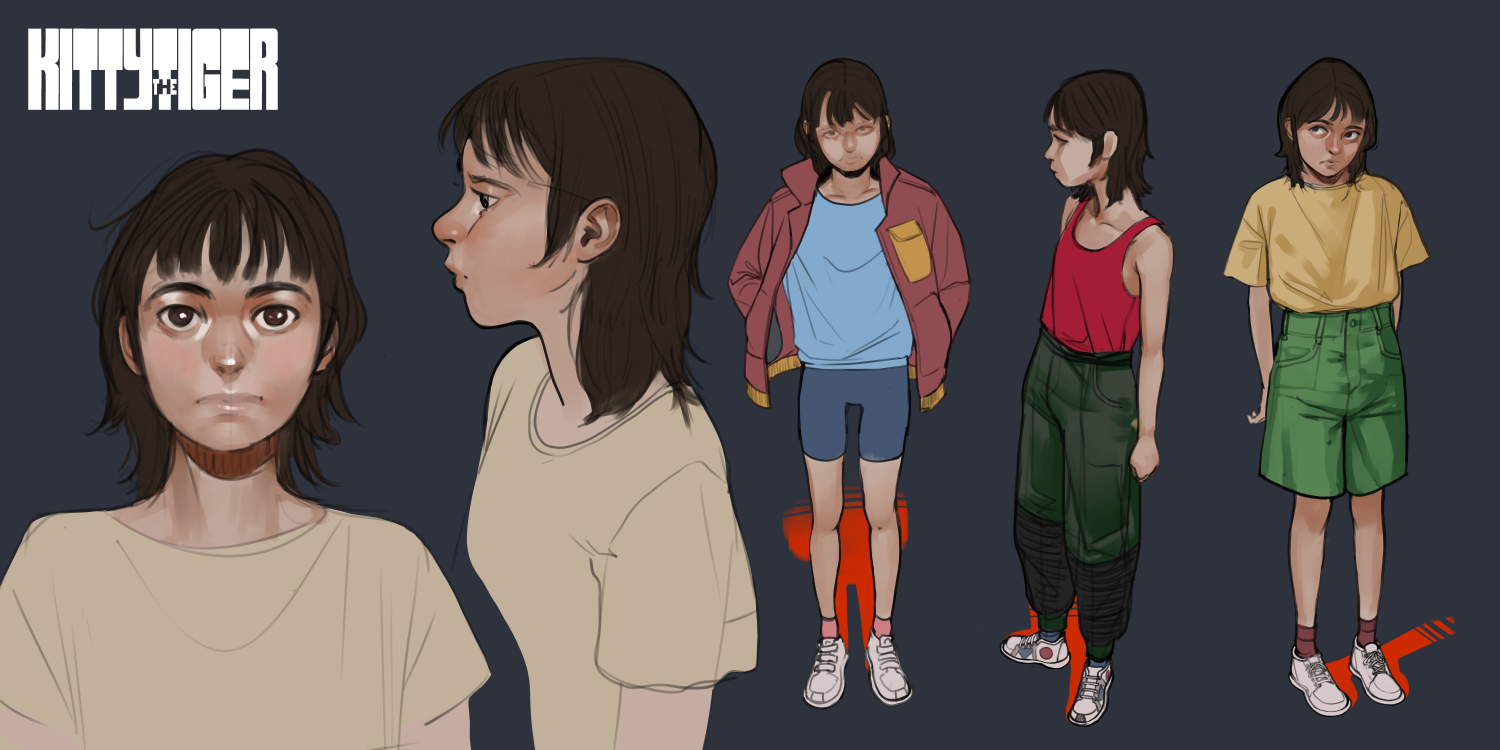
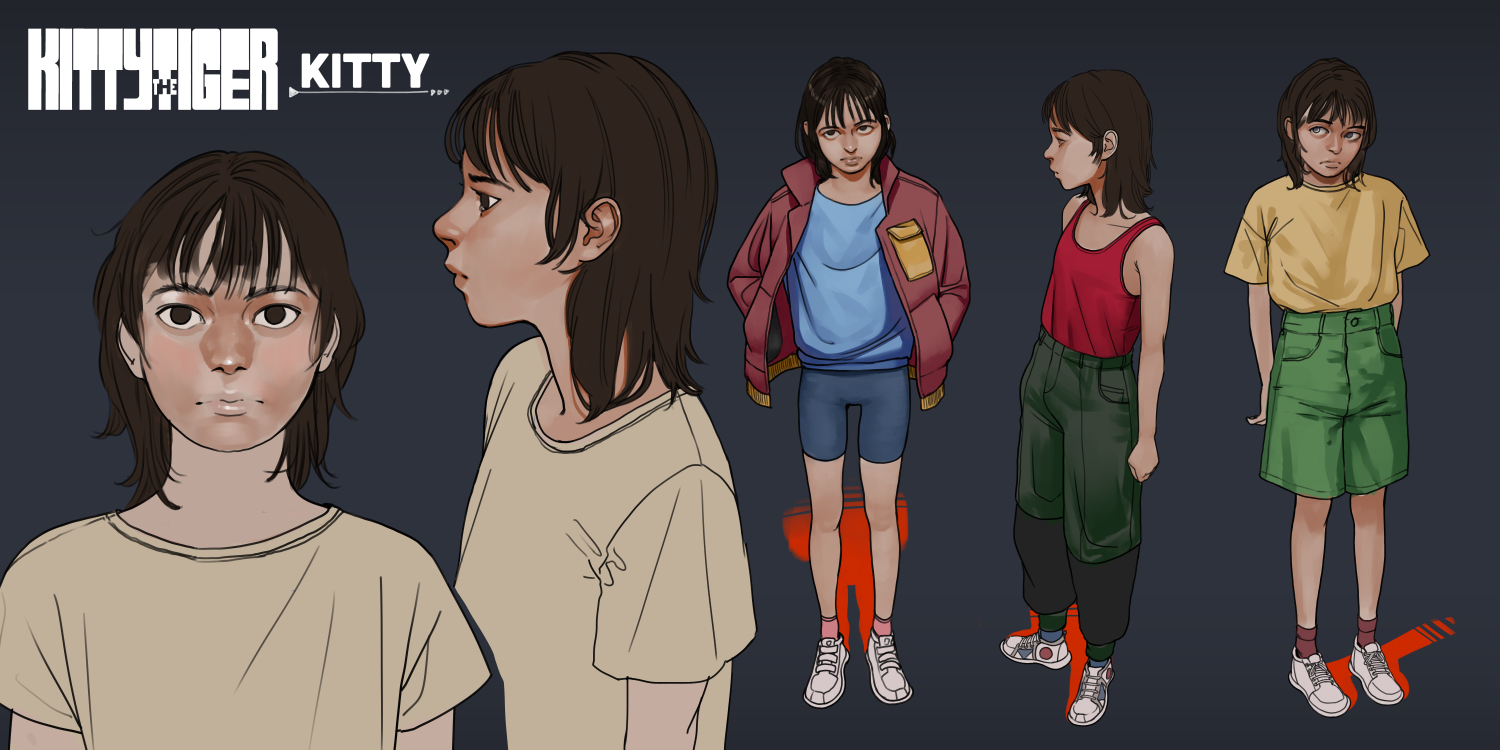
update projects art

diff --git a/client/components/KittyTheTiger.tsx b/client/components/KittyTheTiger.tsx
@@ -23,10 +23,10 @@ function KittyTheTiger() {
           <img className="image-3" src={"/kittythetiger/vis_dev_02.jpg"} />
           <p>Blurb about the world of Kitty the Tiger, it's cyberpunk, but looking for the positive in it.</p>
         </div>
-        <div className="image-block">
-          <img className="image-4" src={"/kittythetiger/vis_dev_01.jpg"} />
-          <p>Blurb about the world of Kitty the Tiger, it's cyberpunk, but looking for the positive in it.</p>
-        </div>
+        {/* <div className="image-block"> */}
+        {/*   <img className="image-4" src={"/kittythetiger/vis_dev_01.jpg"} /> */}
+        {/*   <p>Blurb about the world of Kitty the Tiger, it's cyberpunk, but looking for the positive in it.</p> */}
+        {/* </div> */}
       </section>
       <section>
         <h3>People</h3>
@@ -43,51 +43,51 @@ function KittyTheTiger() {
           <img className="image-3" src={"/kittythetiger/char_designs_03.jpg"} />
           <p>Blurb about the world of Kitty the Tiger, it's cyberpunk, but looking for the positive in it.</p>
         </div>
-        <div className="image-block">
-          <img className="image-4" src={"/kittythetiger/char_designs_02.jpg"} />
-          <p>Blurb about the world of Kitty the Tiger, it's cyberpunk, but looking for the positive in it.</p>
-        </div>
+        {/* <div className="image-block"> */}
+        {/*   <img className="image-4" src={"/kittythetiger/char_designs_02.jpg"} /> */}
+        {/*   <p>Blurb about the world of Kitty the Tiger, it's cyberpunk, but looking for the positive in it.</p> */}
+        {/* </div> */}
       </section>
-      <section>
-        <h3>Cars</h3>
-        <h4>Blurb about the cars and vehicles in the world, because that is just very Cyberpunk and cool.</h4>
-        <div className="image-block">
-          <img className="image-1" src={"/kittythetiger/car_designs_01.jpg"} />
-          <p>Blurb about the world of Kitty the Tiger, it's cyberpunk, but looking for the positive in it.</p>
-        </div>
-        <div className="image-block">
-          <img className="image-2" src={"/kittythetiger/car_designs_01.jpg"} />
-          <p>Blurb about the world of Kitty the Tiger, it's cyberpunk, but looking for the positive in it.</p>
-        </div>
-        <div className="image-block">
-          <img className="image-3" src={"/kittythetiger/car_designs_01.jpg"} />
-          <p>Blurb about the world of Kitty the Tiger, it's cyberpunk, but looking for the positive in it.</p>
-        </div>
-        <div className="image-block">
-          <img className="image-4" src={"/kittythetiger/car_designs_01.jpg"} />
-          <p>Blurb about the world of Kitty the Tiger, it's cyberpunk, but looking for the positive in it.</p>
-        </div>
-      </section>
-      <section>
-        <h3>Technology</h3>
-        <h4>Blurb about the technology in the world, maybe things that are positive, that could be achieved with technical advancements.</h4>
-        <div className="image-block">
-          <img className="image-1" src={"/kittythetiger/char_designs_01.jpg"} />
-          <p>Blurb about the world of Kitty the Tiger, it's cyberpunk, but looking for the positive in it.</p>
-        </div>
-        <div className="image-block">
-          <img className="image-2" src={"/kittythetiger/env_designs_01.jpg"} />
-          <p>Blurb about the world of Kitty the Tiger, it's cyberpunk, but looking for the positive in it.</p>
-        </div>
-        <div className="image-block">
-          <img className="image-3" src={"/kittythetiger/char_designs_01.jpg"} />
-          <p>Blurb about the world of Kitty the Tiger, it's cyberpunk, but looking for the positive in it.</p>
-        </div>
-        <div className="image-block">
-          <img className="image-4" src={"/kittythetiger/char_designs_01.jpg"} />
-          <p>Blurb about the world of Kitty the Tiger, it's cyberpunk, but looking for the positive in it.</p>
-        </div>
-      </section>
+      {/* <section> */}
+      {/*   <h3>Cars</h3> */}
+      {/*   <h4>Blurb about the cars and vehicles in the world, because that is just very Cyberpunk and cool.</h4> */}
+      {/*   <div className="image-block"> */}
+      {/*     <img className="image-1" src={"/kittythetiger/car_designs_01.jpg"} /> */}
+      {/*     <p>Blurb about the world of Kitty the Tiger, it's cyberpunk, but looking for the positive in it.</p> */}
+      {/*   </div> */}
+      {/*   <div className="image-block"> */}
+      {/*     <img className="image-2" src={"/kittythetiger/car_designs_01.jpg"} /> */}
+      {/*     <p>Blurb about the world of Kitty the Tiger, it's cyberpunk, but looking for the positive in it.</p> */}
+      {/*   </div> */}
+      {/*   <div className="image-block"> */}
+      {/*     <img className="image-3" src={"/kittythetiger/car_designs_01.jpg"} /> */}
+      {/*     <p>Blurb about the world of Kitty the Tiger, it's cyberpunk, but looking for the positive in it.</p> */}
+      {/*   </div> */}
+      {/*   <div className="image-block"> */}
+      {/*     <img className="image-4" src={"/kittythetiger/car_designs_01.jpg"} /> */}
+      {/*     <p>Blurb about the world of Kitty the Tiger, it's cyberpunk, but looking for the positive in it.</p> */}
+      {/*   </div> */}
+      {/* </section> */}
+      {/* <section> */}
+      {/*   <h3>Technology</h3> */}
+      {/*   <h4>Blurb about the technology in the world, maybe things that are positive, that could be achieved with technical advancements.</h4> */}
+      {/*   <div className="image-block"> */}
+      {/*     <img className="image-1" src={"/kittythetiger/char_designs_01.jpg"} /> */}
+      {/*     <p>Blurb about the world of Kitty the Tiger, it's cyberpunk, but looking for the positive in it.</p> */}
+      {/*   </div> */}
+      {/*   <div className="image-block"> */}
+      {/*     <img className="image-2" src={"/kittythetiger/env_designs_01.jpg"} /> */}
+      {/*     <p>Blurb about the world of Kitty the Tiger, it's cyberpunk, but looking for the positive in it.</p> */}
+      {/*   </div> */}
+      {/*   <div className="image-block"> */}
+      {/*     <img className="image-3" src={"/kittythetiger/char_designs_01.jpg"} /> */}
+      {/*     <p>Blurb about the world of Kitty the Tiger, it's cyberpunk, but looking for the positive in it.</p> */}
+      {/*   </div> */}
+      {/*   <div className="image-block"> */}
+      {/*     <img className="image-4" src={"/kittythetiger/char_designs_01.jpg"} /> */}
+      {/*     <p>Blurb about the world of Kitty the Tiger, it's cyberpunk, but looking for the positive in it.</p> */}
+      {/*   </div> */}
+      {/* </section> */}
     </main>
   )
 }

diff --git a/client/styles/index.scss b/client/styles/index.scss
@@ -531,7 +531,7 @@ main {
 
       .image-block {
         // display: flex;
-        justify-self: right;
+        justify-self: center;
         margin: 30px;
         margin-left: 10vw;
         margin-right: 10vw;
@@ -551,7 +551,7 @@ main {
         }
       }
       .image-block:nth-child(2n) {
-        justify-self: left;
+        // justify-self: left;
       }
     }
   }
